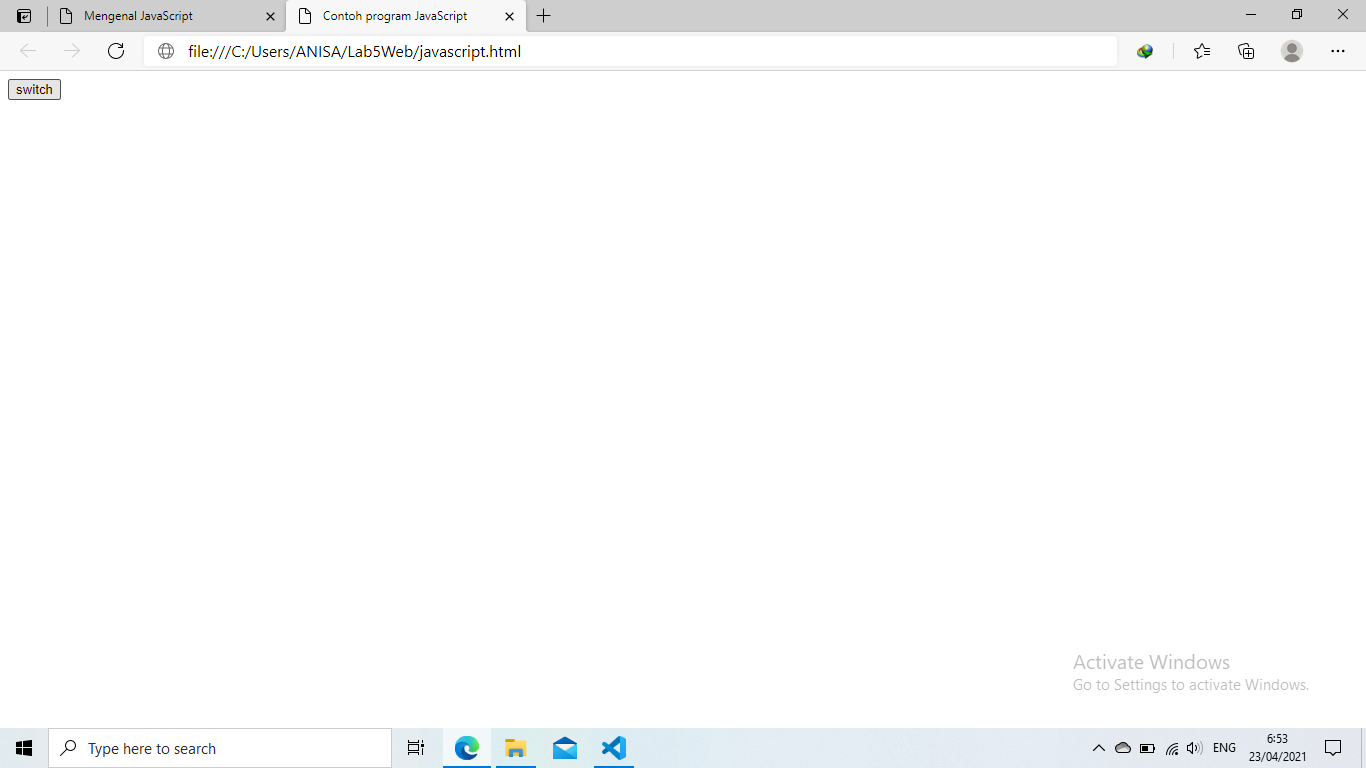
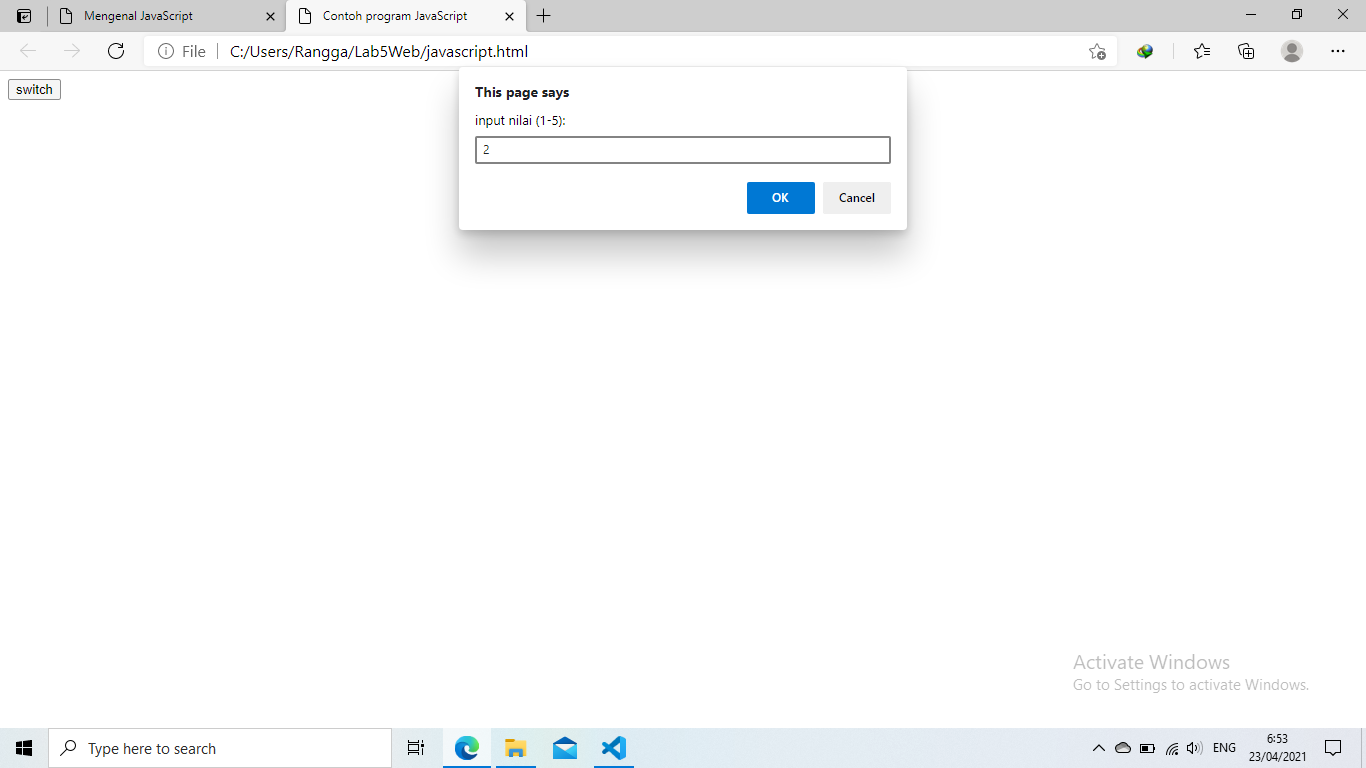
first commit

Changed region(s): [[0.123, 0.0625, 0.6764, 0.3438]]

diff --git a/README.md b/README.md
@@ -1,1 +1,130 @@
-nano
+# PRAKTIKUM 5
+## Penggunaan JavaScript
+### Buatlah dokumen HTML dengan nama file lab5_javascipt.html
+
+Tampilan pada VSCode
+
+![SS](https://github.com/rangs24/Lab5Web/blob/master/ss1.png)
+
+
+Tampilan pada browser
+
+![SS](https://github.com/rangs24/Lab5Web/blob/master/ss2.png)
+
+## JavaScript Dasar
+### Pemakaian Alert sebagai property window
+
+Tampilan pada VSCode
+
+![SS](https://github.com/rangs24/Lab5Web/blob/master/ss3.png)
+
+Tampilan pada browser
+
+![SS](https://github.com/rangs24/Lab5Web/blob/master/ss4.png)
+
+### Pemakaian method dalam objek
+
+Tampilan pada VSCode
+
+![SS](https://github.com/rangs24/Lab5Web/blob/master/ss5.png)
+
+Tampilan pada browser
+
+![SS](https://github.com/rangs24/Lab5Web/blob/master/ss6.png)
+
+### Pemakaian prompt
+
+Tampilan pada VSCode
+
+![SS](https://github.com/rangs24/Lab5Web/blob/master/ss7.png)
+
+Tampilan pada browser
+
+![SS](https://github.com/rangs24/Lab5Web/blob/master/ss8.png)
+![SS](https://github.com/rangs24/Lab5Web/blob/master/ss9.png)
+
+### Pembuatan Fungsi dan cara pemanggilannya
+
+Tampilan pada VSCode
+
+![SS](https://github.com/rangs24/Lab5Web/blob/master/ss10.png)
+
+Tampilan pada browser
+
+![SS](https://github.com/rangs24/Lab5Web/blob/master/ss11.png)
+
+## Dasar Pemrograman di JavaScript
+### Operasi dasar aritmatika
+
+Tampilan pada VSCode
+
+![SS](https://github.com/rangs24/Lab5Web/blob/master/ss12.png)
+
+Tampilan pada browser
+
+![SS](https://github.com/rangs24/Lab5Web/blob/master/ss13.png)
+![SS](https://github.com/rangs24/Lab5Web/blob/master/ss14.png)
+
+### Seleksi kondisi if else
+
+Tampilan pada VSCode
+
+![SS](https://github.com/rangs24/Lab5Web/blob/master/ss15.png)
+
+Tampilan pada browser
+
+![SS](https://github.com/rangs24/Lab5Web/blob/master/ss16.png)
+![SS](https://github.com/rangs24/Lab5Web/blob/master/ss17.png)
+
+### Penggunaan operator switch untuk seleksi kondisi
+
+Tampilan pada VSCode
+
+![SS](https://github.com/rangs24/Lab5Web/blob/master/ss18.png)
+
+Tampilan pada browser
+
+![SS](https://github.com/rangs24/Lab5Web/blob/master/ss19.png)
+![SS](https://github.com/rangs24/Lab5Web/blob/master/ss20.png)
+![SS](https://github.com/rangs24/Lab5Web/blob/master/ss21.png)
+
+## Pembuatan Form
+### Form Input
+
+Tampilan pada VSCode
+
+![SS](https://github.com/rangs24/Lab5Web/blob/master/ss22.png)
+
+Tampilan pada browser
+
+![SS](https://github.com/rangs24/Lab5Web/blob/master/ss23.png)
+![SS](https://github.com/rangs24/Lab5Web/blob/master/ss24.png)
+
+Form Button
+
+Tampilan pada VSCode
+
+![SS](https://github.com/rangs24/Lab5Web/blob/master/ss25.png)
+
+Tampilan pada browser
+
+![SS](https://github.com/rangs24/Lab5Web/blob/master/ss26.png)
+![SS](https://github.com/rangs24/Lab5Web/blob/master/ss27.png)
+
+## HTML DOM
+### Pilihan menggunakan checkbox dengan perhitungan otomatis
+
+Tampilan pada VSCode
+
+![SS](https://github.com/rangs24/Lab5Web/blob/master/ss28.png)
+
+Tampilan pada browser
+
+![SS](https://github.com/rangs24/Lab5Web/blob/master/ss29.png)
+![SS](https://github.com/rangs24/Lab5Web/blob/master/ss30.png)
+
+# TUGAS
+1. [JawabanTugas](https://github.com/rangs24/Lab5Web/blob/master/tugas.html
+
+![SS](https://github.com/rangs24/Lab5Web/blob/master/ss31.png)
+![SS](https://github.com/rangs24/Lab5Web/blob/master/ss32.png)
